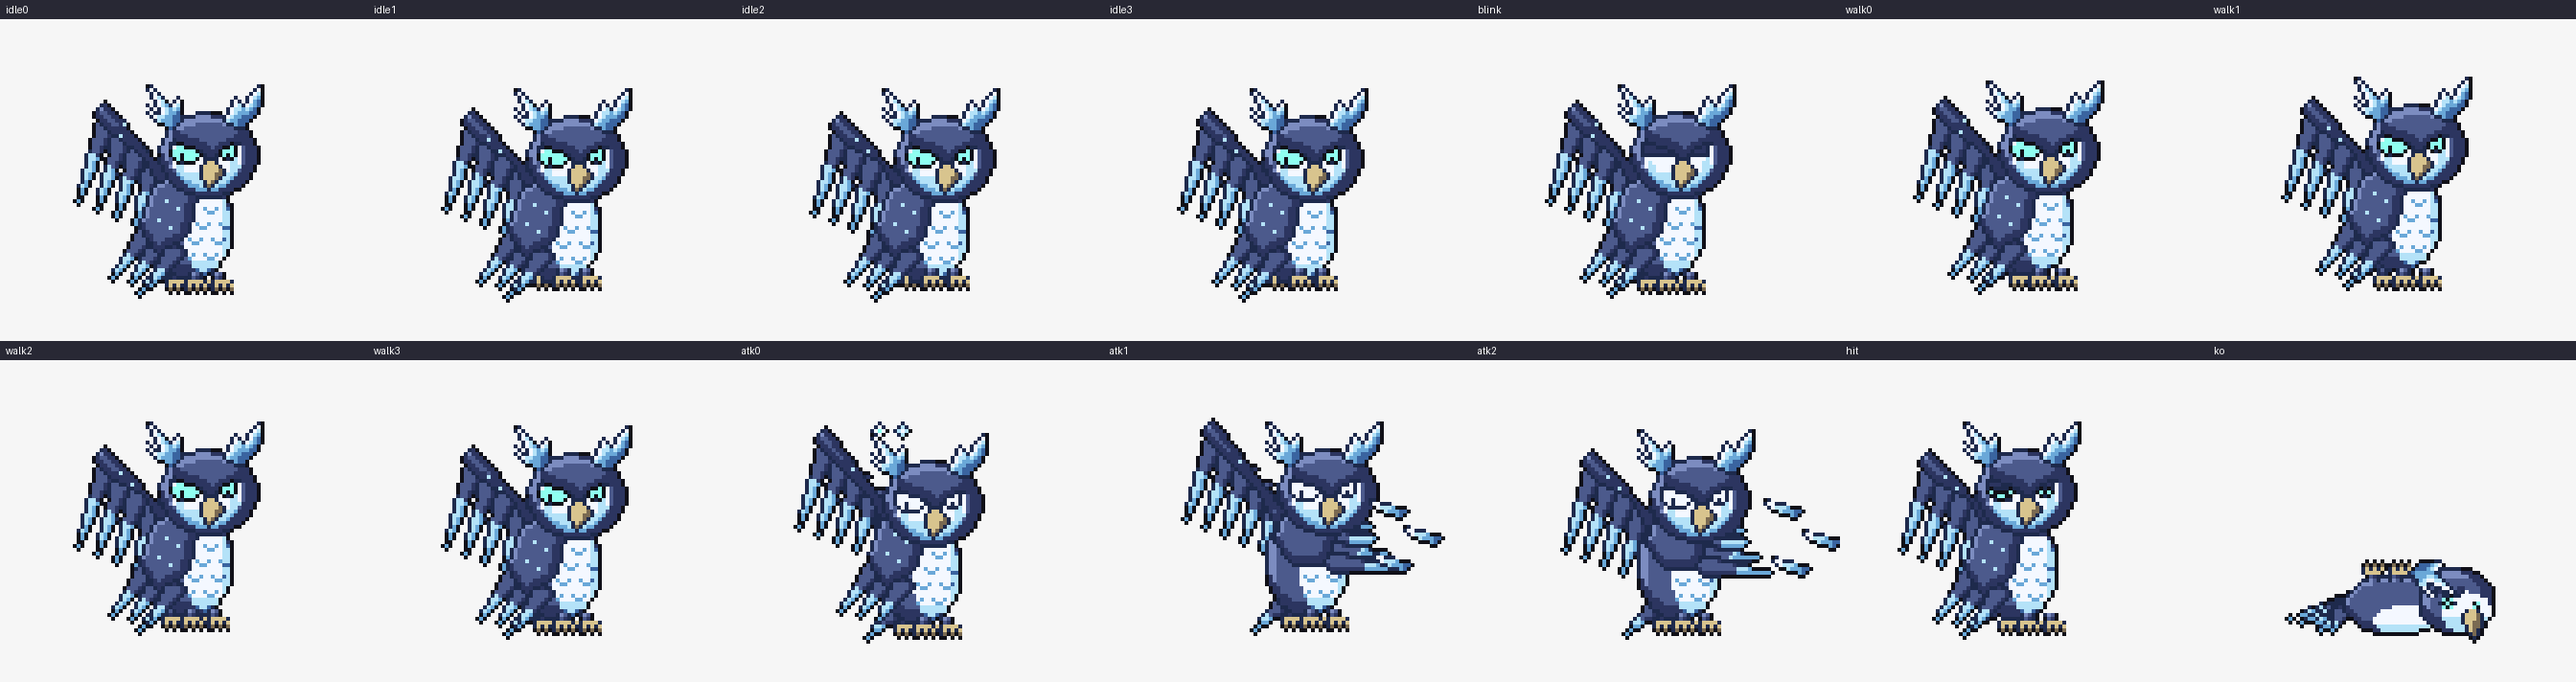
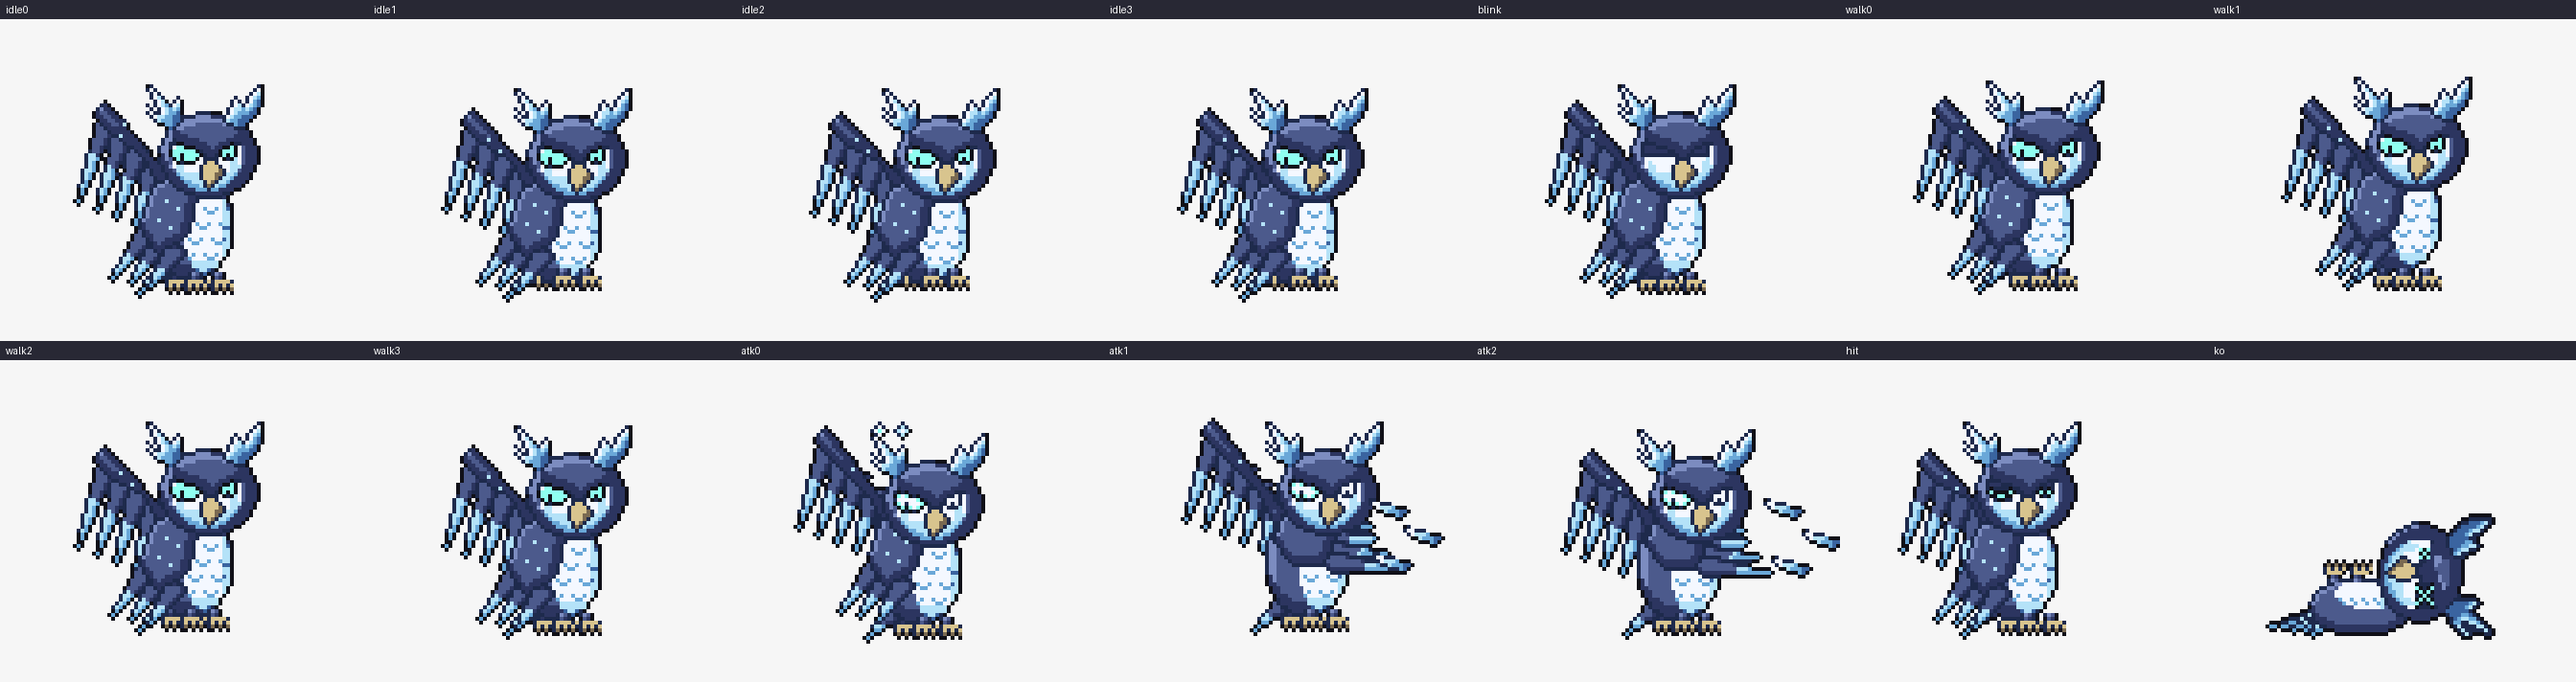
コオリミミズク・フクログマ・エンジャク・イカヅチドリを 描き直し（やられコマ など）
Claude-Session: https://claude.ai/code/session_01J9mYv3PRYW1GKv9GU2f7rQ

diff --git a/tools/monsters/koorimimizuku/mon.py b/tools/monsters/koorimimizuku/mon.py
@@ -234,44 +234,51 @@ FROST = ['..k.....k..', '.kWk...kIk.', 'kWEWk.kIWIk', '.kWk...kIk.', '..k.....k.
 # 目（手打ち）：外側が 高く、くちばし側へ 下がる つり目。黒い ふちで 光を きわだたせる
 EYE = ['kkkk.....', 'kWEEkkk..', 'kEEEEEEkk', 'kEEkEEEEk', '.kEkEEEk.', '..kkkkk..']
 EYE_ALT = {'blink': ['kkkk.....', 'kMMMkkk..', 'kMMMMMMkk', 'kkkkkkkkk', '.WWWWWW..', '.........'],
-           'atk0|atk1|atk2': ['kkkk.....', 'kWWWkkk..', 'kWWWWWWkk', 'kWWkWWWWk', '.kWkWWWk.', '..kkkkk..'],
+           'atk0|atk1|atk2': ['kkkk.....', 'kEWEkkk..', 'kWWWWWEkk', 'kEWkWWWEk', '.kEkEWEk.', '..kkkkk..'],
            'hit': ['kkkk.....', 'kMMMkkk..', 'kkkkkkkkk', 'kEkkkkEkk', '.kkEEkk..', '..kkkkk..']}
 EYEF = ['...kk', '.kkEk', 'kEEEk', 'kEkEk', '.kkk.']
 EYEF_ALT = {'blink': ['...kk', '.kkMk', 'kMMMk', 'kkkkk', '.....'], 'atk0|atk1|atk2': ['...kk', '.kkWk', 'kWWWk', 'kWkWk', '.kkk.'], 'hit': ['...kk', '.kkMk', 'kkkkk', 'kEkEk', '.kkk.']}
 
-# ---------- ダウン：あおむけ ではなく 横だおし。翼は 地面に 広がり、目は × ----------
+# ---------- ダウン：あおむけに たおれる。頭は 横に ころがり（羽角が 右、顔が 上）、目は ×、爪は 上を 向く ----------
+EYE_KO = ['kEkkkEk', 'kkEkEkk', 'kkkEkkk', 'kkEkEkk', 'kEkkkEk']
+EYEF_KO = ['EkE', 'kEk', 'EkE']
+def crop(g):
+    ys = [y for y in range(len(g)) if any(c != '.' for c in g[y])]; xs = [x for x in range(len(g[0])) if any(g[y][x] != '.' for y in ys)]
+    return [r[xs[0]:xs[-1] + 1] for r in g[ys[0]:ys[-1] + 1]]
+def anti_t(g):
+    """右上〜左下の 対角線で 折り返す（上 → 右、右 → 上）。90度 回転＋左右反転に あたる"""
+    H, W = len(g), len(g[0])
+    return [[g[H - 1 - x][W - 1 - y] for x in range(H)] for y in range(W)]
+def ko_head():
+    g = canvas()
+    pix.ellipse(g, 38.5, 20.5, 12.5, 10.5, 'N')
+    pix.stamp(g, FACE, 29, 14)
+    pix.stamp(g, EYE_KO, 29, 17); pix.stamp(g, EYEF_KO, 42, 18)
+    pix.stamp(g, recolor_dim(CRYSTAL_B), 22, 2); pix.stamp(g, recolor_dim(CRYSTAL_F), 42, 2)
+    g = anti_t(crop(g))
+    g = shade(g, 'N', 'n', 'N', 'M', 2)   # 光は 回したあとで つけ直す（左上から）
+    return pix.grid_of(pix.outline(pix.rows_of(g)))
+def recolor_dim(rows): return pix.recolor(rows, {'W': 'I', 'I': 'J', 'J': 'K'})   # 結晶の 光が 消える
 def ko_pose():
     g = canvas()
     # 地面に 広がった 翼（刃が 左へ ねる）
     for i in range(5):
-        bx, by = 26 - i * 2, 47 + i
-        blade(g, (bx, by), (bx + 3, by + 4), (4 + i * 3, 56 + i), .55)
-    b = canvas(); pix.ellipse(b, 33, 52, 13, 7.5, 'N')
+        bx, by = 26 - i * 2, 49 + i
+        blade(g, (bx, by), (bx + 3, by + 4), (3 + i * 3, 58 + i // 2), .45)
+    b = canvas(); pix.ellipse(b, 28, 52.5, 13, 7, 'N')
     b = shade(b, 'N', 'n', 'N', 'M', 1)
-    c = canvas(); pix.ellipse(c, 36, 56, 9, 4, 'W')   # 白い 胸が 下に 見える
+    c = canvas(); pix.ellipse(c, 30, 49, 9, 4, 'W')   # 白い 胸が 上を 向く
     for y in range(S):
         for x in range(S):
-            if c[y][x] == 'W' and b[y][x] != '.': b[y][x] = 'I' if y >= 57 else 'W'
+            if c[y][x] == 'W' and b[y][x] != '.': b[y][x] = 'W' if x < 33 else 'I'
+    for x in range(22, 38, 3):
+        if b[50][x] == 'W': b[50][x] = 'J'
+        if b[50][x + 1] == 'W': b[51][x + 1] = 'J'
     b = ol(b)
     g = merge(g, b)
-    # 頭：地面に 横たわる（羽角は ななめに たおれる）
-    h = canvas()
-    pix.ellipse(h, 49, 51, 9.5, 8.5, 'N')
-    h = shade(h, 'N', 'n', 'N', 'M', 2)
-    f = canvas(); pix.ellipse(f, 51.5, 54, 6.5, 5.5, 'I')
-    for y in range(S):
-        for x in range(S):
-            if f[y][x] == 'I' and h[y][x] != '.': h[y][x] = 'W' if y < 55 else 'I'
-    pix.stamp(h, ['MMM......', 'NMMMM..MM', '.lMMMMMMl', '...llMll.'], 42, 46)
-    put(h, [(45, 50, 'E'), (47, 50, 'E'), (46, 51, 'E'), (45, 52, 'E'), (47, 52, 'E'),
-            (46, 50, 'k'), (45, 51, 'k'), (47, 51, 'k'), (46, 52, 'k'), (48, 51, 'k'), (44, 51, 'k'),
-            (53, 51, 'k'), (54, 51, 'E'), (53, 52, 'E'), (54, 52, 'k')])
-    pix.stamp(h, BEAK, 50, 53)
-    h = ol(h)
-    pix.stamp(h, pix.rot90(CRYSTAL_B)[::-1], 37, 37)
-    g = merge(g, h)
-    # 爪：力なく 上を 向く
-    pix.stamp(g, pix.flip_v(TALON), 24, 40)
+    pix.stamp(g, pix.flip_v(TALON), 18, 40)   # 爪は 上を 向いて 丸まる
+    h = ko_head(); hh, hw = len(h), len(h[0])
+    pix.stamp(g, pix.rows_of(h), 64 - hw - 1, 61 - hh)
     return g
 
 UP_WING = {0: wing_raised(), 1: wing_raised(1), 2: wing_raised(2)}
@@ -291,7 +298,7 @@ def layers():
         dict(n='frost', g='head', x=22, y=2, rows=FROST, only='atk0'),
         dict(n='volley1', g='fx', x=50, y=24, rows=VOLLEY1, only='atk1'),
         dict(n='volley2', g='fx', x=46, y=24, rows=VOLLEY2, only='atk2'),
-        dict(n='ko', g='root', x=0, y=0, rows=rows(ko_pose()), only='ko'),
+        dict(n='ko', g='root', x=-4, y=0, rows=rows(ko_pose()), only='ko'),
     ]
 
 FRAMES = {

diff --git a/tools/monsters/koorimimizuku/SETTEI.md b/tools/monsters/koorimimizuku/SETTEI.md
@@ -6,26 +6,28 @@
 |---|---|
 | タイプ | こおり ／ ひこう（風） |
 | もとの 生き物 | ミミズク（羽角の ある フクロウ） |
-| 分類 | つららばね モンスター（約52×35） |
+| 分類 | つららばね モンスター（約50×56・直立） |
 | 性格 | 音を 立てずに 近づき、相手が 気づく 前に 氷の 羽を 撃ちこむ。ひとりで 狩る |
 | すみか | 凍った 針葉樹林、吹雪の 山の 崖 |
 
 ## 見た目
-- 背と 翼は 夜空の 紺。胸は 白く、水色の 横じま
-- 羽角は 氷の 結晶で、後ろへ 反った 角の よう
-- 顔の 上半分は 紺の まゆの 帯で おおわれ、その 下から つり上がった 水色の 目が 光る。小さな かぎくちばし
-- 翼の 下ふちから、風切り羽の かわりに つららの 刃が 何本も たれる（こおりの しるし）
-- 尾も 氷の 刃。足は 紺の 羽毛で、黒い かぎ爪を 前に 出す
+- 体は 直立した たまご形。大きな 頭を 前に 出して にらむ
+- 背と 翼は 夜空の 紺。胸は 白く、水色の 波うつ 横じま
+- 羽角は 氷の 結晶（3本と 2本の 刃）で、後ろへ 反った 角の よう
+- 重い 紺の まゆが くちばしの 根もとへ V字に 下がり、その 下で 黒く ふちどった つり目が 水色に 光る（たての ひとみ）。白い 霜の 顔に 金色の かぎくちばし
+- うしろの 翼を 半分 上げ、風切り羽の かわりに つららの 刃が 何本も たれる（こおりの しるし）。手前の 翼は たたんで 体に そわせ、下から 刃が のぞく
+- 尾も 氷の 刃。足は 紺の 羽毛で、金の かぎ爪
 
-## 色（GBA風・16色以内 → 11色）
-輪郭 2（黒／こい紺）・白・氷 3（水色〜青）・紺の 羽 2・目の 光・くちばし 2
+## 色（GBA風・16色以内）
+輪郭 2（黒／こい紺）・白・氷 3（水色〜青）・紺の 羽 3・目の 光・くちばし 2 → 12色
 
 ## 動き
-- 待機・歩き（はばたき）：翼を 上 → 横 → 下 → 横 と はばたき、体が 上下
+- 待機：体が 上下し、上げた 翼が ゆれる
+- 歩き：その場で 小さく はねる
 - まばたき：まぶたが 閉じる
-- 攻撃：翼を 上げて 霜の 光（ため・目が 白く 光る）→ 翼を 打ちおろして つららの 羽を 3本 撃ちだす → 羽が さらに 前へ 飛ぶ
+- 攻撃：翼を 高く 上げて 霜の 光（ため・目が 白く 光る）→ 手前の 翼を 前へ 打ちだして つららの 羽を 3本 撃ちだす → 羽が さらに 前へ 飛ぶ
 - 被弾：首を 引いて 後ろへ
-- ダウン：地面に 落ちて 首を たれる（目は ×）
+- ダウン：あおむけに たおれ、頭が 横に ころがる。爪は 上を 向き、結晶の 光が 消える（目は ×）
 
 ## ゲーム上の 目安
 - 素早さと 攻撃が 高い。HPと 防御は 低め

diff --git a/tools/monsters/fukuroguma/SETTEI.md b/tools/monsters/fukuroguma/SETTEI.md
@@ -12,8 +12,9 @@
 
 ## 見た目
 - 熊の 巨体を 前かがみに 起こした 二足。肩は 大きく 盛り上がる
-- 頭は ミミズクに 似た 平たい 顔。羽角（はねの 角）が 2本、まゆの 黒い 羽が V字に 目を おおい、だいだい色の 目が にらむ
-- 短く 太い かぎ形の くちばし。首に 羽の えりまき、胸は 羽毛の もよう
+- 頭は まるい ミミズクの 顔。羽角（はねの 角）が 2本、まゆの 黒い 羽が くちばしの 根もとへ V字に 下がり、その 下で だいだい色の 目が 光って にらむ
+- 大きく 太い かぎ形の くちばし（先が 下へ 曲がる）。首の 羽の えりまきは 肩の 熊の 毛に とけこむ。胸は 羽毛の もよう
+- 茶色の 毛は 光（左上）と 影（右下）で ぬり分け、毛の すじを 入れる
 - 手前の 前足は 地面近くまで とどく 長い うで、白い 大きな 爪。後ろの 前足は 爪を ひろげて ふり上げる
 - 手首に 赤い 拳闘の まき布（かくとうの しるし）
 
@@ -26,7 +27,7 @@
 - 歩き：足を 交互に、うでを ふる
 - 攻撃：うでを 引いて 目が 黄色く 光る → 正拳を まっすぐ 前へ、こぶしの 先に 衝撃の 光 → 爪で ふりぬいて 3本の 爪あと
 - 被弾：頭を 引いて のけぞる
-- ダウン：ひざから くずれて へたりこみ、頭が 落ちる（目は ×）
+- ダウン：うつぶせに たおれて、あごを 地面に つける。前足は 投げ出し、後ろ足は 横に のびる（目は ×）
 
 ## ゲーム上の 目安
 - HPと 攻撃が とても 高い。素早さは 低い

diff --git a/tools/monsters/ikazuchidori/SETTEI.md b/tools/monsters/ikazuchidori/SETTEI.md
@@ -25,7 +25,7 @@
 - まばたき：目が 閉じる
 - 攻撃：翼を 上げて 角に 放電（ため）→ くちばしから 前へ 稲妻を 放つ → 前で 火花が はじける
 - 被弾：首を 引いて 後ろへ
-- ダウン：地面に 落ちて 首を たれる（目は ×）
+- ダウン：地面に 横たわり、翼は 地面に たれる。角の 電気は 消えて 灰色になり、けむりが 上がる（目は ×）
 
 ## ゲーム上の 目安
 - 特攻が 高く、素早さも 高め。HPは ふつう

diff --git a/tools/monsters/enjaku/SETTEI.md b/tools/monsters/enjaku/SETTEI.md
@@ -25,7 +25,7 @@
 - まばたき：目が 閉じる
 - 攻撃：翼を 高く 上げ 身を 引く（目が 光る）→ 翼を 打ちおろして 炎の つむじ風を 前へ → 横に ひろげて ふりぬく
 - 被弾：首を すくめて 後ろへ
-- ダウン：地面に 落ちて 首を たれる（目は ×）
+- ダウン：地面に 横たわり、翼は 力なく 地面に たれる。炎は 弱まって 暗い 赤に（目は ×）
 
 ## ゲーム上の 目安
 - 特攻と 素早さが 高い。防御は 低め
